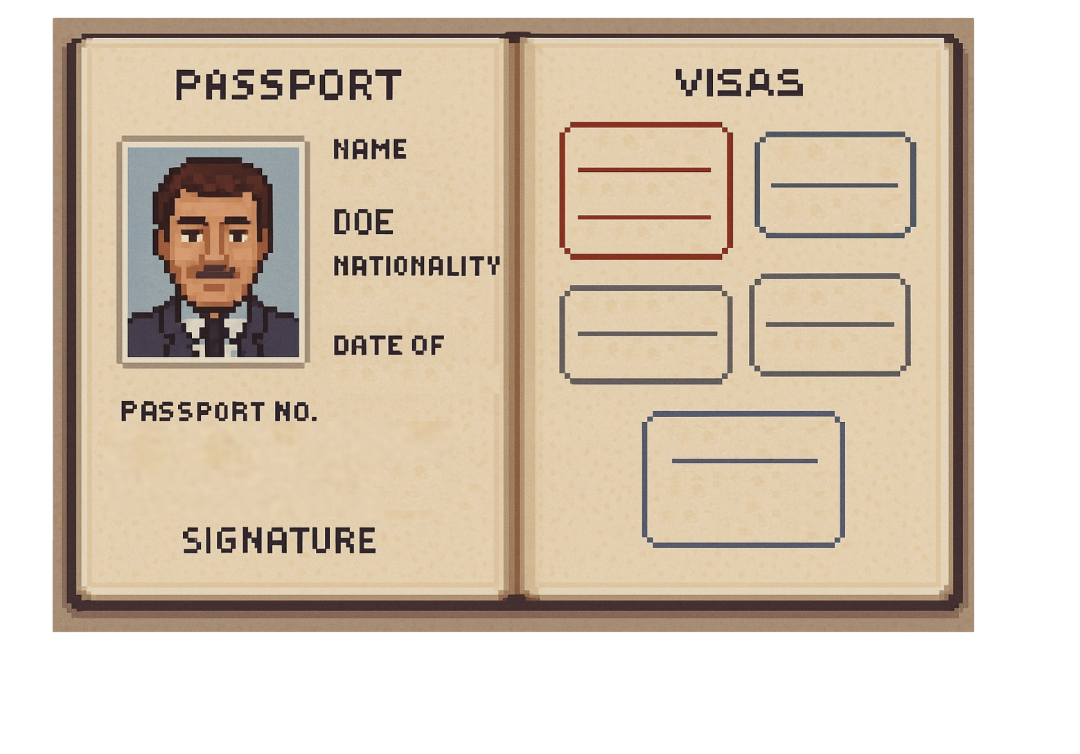
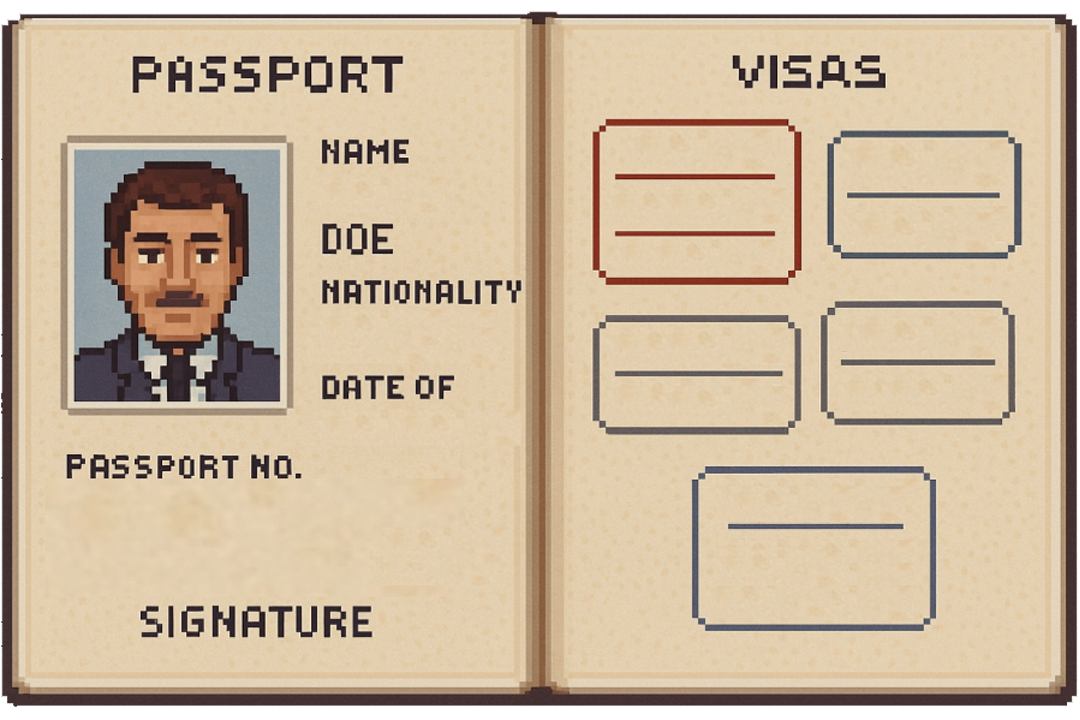
can show random character and passport

diff --git a/main.py b/main.py
@@ -1,5 +1,6 @@
 import pygame
 import sys
+import random
 
 pygame.init()
 
@@ -17,6 +18,7 @@ class Image:
         self.alpha = alpha
         self.show = show
         self.image = pygame.transform.scale(pygame.image.load(path).convert_alpha(), size)
+        self.rect = self.image.get_rect()
 
 
 background = Image('image/background.png', screen_size, 0)
@@ -29,30 +31,44 @@ quit_button_normal = Image('image/quit.png', (187.5, 100), 0)
 quit_button_hover = Image('image/quit_hover.png', (187.5, 100), 0)
 quit_button_pressed = Image('image/quit_pressed.png', (187.5, 100), 0)
 game_background = Image('image/game_background.png', screen_size, 0)
-passport_1 = Image('image/passport_1.png', (96,143.0625), 255)
+passport_1 = Image('image/passport_1.png', (96,143.0625), 255, show=False)
 passport_1_hover = Image('image/passport_1_hover.png', (187.5, 100), 255)
 passport_1_pressed = Image('image/passport_1_pressed.png', (187.5, 100), 255)
-passport_2 = Image('image/passport_2.png', (96,143.0625), 255)
+passport_2 = Image('image/passport_2.png', (96,143.0625), 255, show=False)
 passport_2_hover = Image('image/passport_1_hover.png', (187.5, 100), 255)
 passport_2_pressed = Image('image/passport_1_pressed.png', (187.5, 100), 255)
-passport_3 = Image('image/passport_3.png', (96,143.0625), 255)
-passport_4 = Image('image/passport_4.png', (96,143.0625), 255)
-passport_5 = Image('image/passport_5.png', (96,143.0625), 255)
+passport_3 = Image('image/passport_3.png', (96,143.0625), 255, show=False)
+passport_4 = Image('image/passport_4.png', (96,143.0625), 255, show=False)
+passport_5 = Image('image/passport_5.png', (96,143.0625), 255, show=False)
 # passport_hover = Image('image/passport_hover.png', (96,143.0625), 255)
 
-passport = [passport_1,passport_2,passport_3,passport_4,passport_5,passport_5]
+passport_list = [passport_1,passport_2,passport_3,passport_4,passport_5,passport_5]
 
-passport_details = Image('image/passport_details.png', (96,143.0625), 255)
+
+character_1 = Image('image/character_1.png', (500,500), 255, show=False)
+character_2 = Image('image/character_2.png', (500,500), 255, show=False)
+character_3 = Image('image/character_3.png', (500,500), 255, show=False)
+character_4 = Image('image/character_4.png', (500,500), 255, show=False)
+character_5 = Image('image/character_5.png', (500,500), 255, show=False)
+character_6 = Image('image/character_6.png', (500,500), 255, show=False)
+character_7 = Image('image/character_7.png', (500,500), 255, show=False)
+character_list = [character_1,character_2,character_3,character_4,character_5,character_6,character_7]
+
+
+passport_details = Image('image/passport_details.png', (400,600), 255,show=False)
 
 splash_state = "fade_in"
 menu_state = ""
 game_state = "splash"
 game_state = "main_game"
+game_screen = "fade_in"
 # title_state = "off"
 button_pressed = ""
+go_next_round = True
 
 start_button_range = ((131.25, 582.5), (293.75, 667.5))
 quit_button_range = ((131.25, 695), (285, 780))
+passport_range = ((302,570),(396,711))
 
 
 start_button = [start_button_normal.image, start_button_hover.image, start_button_pressed.image]
@@ -77,7 +93,9 @@ def mouse_in_quit_button():
     return quit_button_range[0][0] <= mouse_x <= quit_button_range[1][0] and quit_button_range[0][1] <= mouse_y <= \
         quit_button_range[1][1]
 
-
+def mouse_in_passport():
+    return passport_range[0][0] <= mouse_x <= passport_range[1][0] and passport_range[0][1] <= mouse_y <= \
+        passport_range[1][1]
 
 running = True
 while running:
@@ -188,6 +206,7 @@ while running:
         screen.blit(quit_button[quit_button_index], quit_button_normal.image.get_rect(center=(212.5, 737.5)))
 
     if game_state == "main_game":
+        screen.fill("black")
         if game_screen == "fade_in":
             if game_background.alpha < 255:
                 game_background.alpha += 5
@@ -195,7 +214,27 @@ while running:
             elif game_background.alpha >= 255:
                 game_screen = "hold"
         elif game_screen == "hold":
-            pass
+            def new_round(last_index):
+                character_index = random.randint(0,6)
+                passport_index = random.randint(0,4)
+                passport_list[passport_index].show = True
+                character_list[character_index].show = True
+                while True:
+                    if character_index != last_index:
+                        return character_index
+                    else:
+                        character_index = random.randint(0,6)
+
+
+            if go_next_round:
+                last_character_index = new_round(666)
+                go_next_round = False
+
+
+
+
+
+
 
         if font_size != target_size:
             font_size = target_size
@@ -203,9 +242,18 @@ while running:
 
 
         screen.blit(game_background.image, (0, 0))
-        for passport in passport:
+        for passport in passport_list:
             if passport.show:
                 screen.blit(passport.image, passport.image.get_rect(center=(350, 640)))
+                if mouse_in_passport() and pygame.mouse.get_pressed()[0]:
+                    passport_details.show = not passport_details.show
+
+        for character in character_list:
+            if character.show:
+                screen.blit(character.image, character.image.get_rect(center=(250, 260)))
+        if passport_details.show:
+            pass
+
 
 
 
